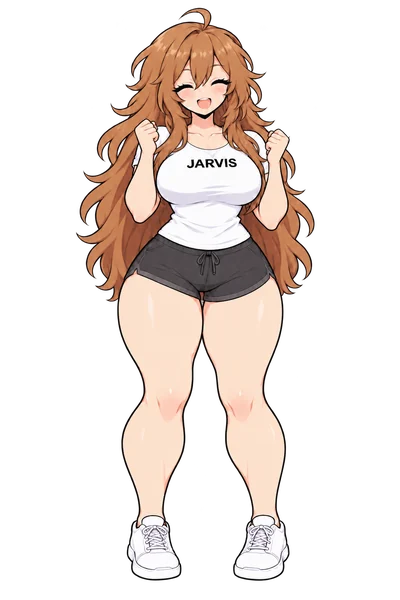
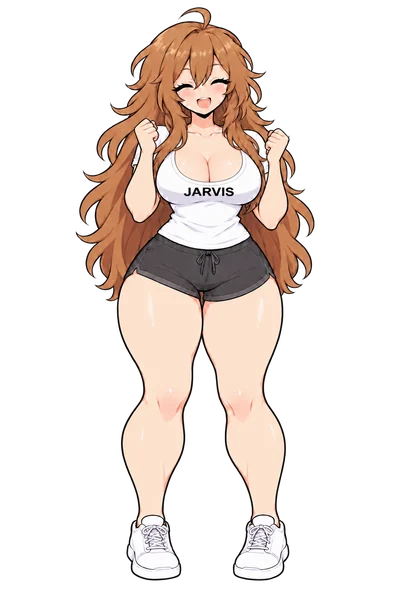
Figur: 54 Bilder mit Übergängen (Zwischenbilder, zweite Denkpose, Geste), Animationsablauf über die Grundhaltung; schmale Denk-Blase
Claude-Session: https://claude.ai/code/session_01N3EfzW3njhHc1DPKozMd7w

diff --git a/src/renderer/src/components/Pet.jsx b/src/renderer/src/components/Pet.jsx
@@ -1,4 +1,4 @@
-import { useEffect, useState } from 'preact/hooks';
+import { useEffect, useRef, useState } from 'preact/hooks';
 import { PET_ART, PET_ART_RATIO } from '../pet-art.js';
 /**
  * JARVIS als Anime-Figur (eigene Gestaltung, reines SVG): feste Outline, Cel-Shading, Kopf zu Körper ca. 1 : 5,
@@ -185,33 +185,70 @@ export const petHeight = (gender, size) => Math.round(size * (PET_ART[gender]?.i
  * Figur aus Bildern (eigene Zeichnungen, siehe scripts/import-pet-art.py): je Zustand ein Bild, Bewegung durch Umschalten –
  * Blinzeln (idle↔blink), Mund (talk↔idle), Laufen (walk1↔walk2) – plus Atmen/Wippen per CSS. Fehlt ein Bild, nimmt sie idle + Effekt.
  */
+/** Zustand der App → Bild-Pose (mit Abwechslung: zwei Denkposen, Freuen oder erklärende Geste). */
+function poseFor(state, art, variant) {
+  if (state === 'walk') return art.walk1 ? 'walk' : 'idle';
+  if (state === 'think') return variant && art.think_high ? 'think_high' : art.think ? 'think' : 'idle';
+  if (state === 'happy') return variant && art.gesture ? 'gesture' : art.happy ? 'happy' : 'idle';
+  return art[state] ? state : 'idle';
+}
+
+/**
+ * Bild-Figur mit Übergängen: Zwischen Grundhaltung und Pose spielt je ein Zwischenbild (idle_to_<pose>), von einer Pose zur
+ * nächsten geht es über die Grundhaltung. Dauerschleifen: Blinzeln (idle), Mund (talk), Schritte (walk).
+ */
 function PetImage({ art, state, facing, size, handlers }) {
-  const [tick, setTick] = useState(0);
-  const [blink, setBlink] = useState(false);
+  const [frame, setFrame] = useState('idle');
+  const cur = useRef('idle'); // Pose, in der sie gerade „steht“
+  const timers = useRef([]);
+  const variant = useRef(false);
+  const clear = () => { timers.current.forEach(clearTimeout); timers.current = []; };
+  const later = (fn, ms) => timers.current.push(setTimeout(fn, ms));
   useEffect(() => { Object.values(art).forEach((src) => { const i = new Image(); i.src = src; }); }, [art]);
+  useEffect(() => () => clear(), []);
   useEffect(() => {
-    if (state !== 'talk' && state !== 'walk') return undefined;
-    const t = setInterval(() => setTick((n) => n + 1), state === 'talk' ? 150 + Math.random() * 60 : 300);
-    return () => clearInterval(t);
-  }, [state]);
-  useEffect(() => {
-    let t; let u;
-    const loop = () => { t = setTimeout(() => { setBlink(true); u = setTimeout(() => { setBlink(false); loop(); }, 140); }, 2600 + Math.random() * 3200); };
-    loop();
-    return () => { clearTimeout(t); clearTimeout(u); };
-  }, []);
-  const pick = () => {
-    if (state === 'walk') return art.walk2 && tick % 2 ? art.walk2 : art.walk1 || art.idle;
-    if (state === 'talk') return tick % 2 ? art.idle : art.talk || art.idle;
-    if (art[state]) return art[state];
-    return blink && art.blink ? art.blink : art.idle;
-  };
+    if (state === 'think' || state === 'happy') variant.current = Math.random() < (state === 'happy' ? 0.5 : 0.45);
+    const target = poseFor(state, art, variant.current);
+    clear();
+    const has = (k) => !!art[k];
+    const via = (p) => (p === 'walk' ? 'idle_to_walk1' : 'idle_to_' + p);
+    // Weg: aktuelle Pose → (Zwischenbild) → idle → (Zwischenbild) → Ziel
+    const seq = [];
+    const fast = (p) => p === 'talk' || p === 'blink';
+    if (cur.current !== target) {
+      if (cur.current !== 'idle') { if (has(via(cur.current))) seq.push([via(cur.current), fast(cur.current) ? 60 : 110]); seq.push(['idle', target === 'idle' ? 0 : 90]); }
+      if (target !== 'idle') { if (has(via(target))) seq.push([via(target), fast(target) ? 60 : 110]); }
+    }
+    let t = 0;
+    for (const [f, ms] of seq) { later(() => setFrame(f), t); t += ms; }
+    later(() => { cur.current = target; settle(target); }, t);
+    function settle(p) {
+      if (p === 'walk') { let n = 0; const step = () => { setFrame(n++ % 2 && art.walk2 ? 'walk2' : 'walk1'); later(step, 300); }; step(); return; }
+      if (p === 'talk') {
+        // Mund: talk → halb → zu → halb … mit leicht wechselndem Tempo
+        const cyc = ['talk', 'idle_to_talk', 'idle', 'idle_to_talk'].filter(has); let n = 0;
+        const step = () => { setFrame(cyc[n++ % cyc.length]); later(step, 70 + Math.random() * 50); }; step(); return;
+      }
+      setFrame(p);
+      if (p === 'idle' && has('blink')) {
+        const blink = () => later(() => {
+          const b = has('idle_to_blink') ? ['idle_to_blink', 'blink', 'idle_to_blink', 'idle'] : ['blink', 'idle'];
+          b.forEach((f, k) => later(() => setFrame(f), k * 60));
+          later(blink, b.length * 60);
+        }, 2600 + Math.random() * 3400);
+        blink();
+      }
+    }
+    return () => clear();
+  }, [state, art]);
   const h = Math.round(size * PET_ART_RATIO);
+  const src = art[frame] || art.idle;
+  const walking = /walk/.test(frame);
   // Nur die seitlichen Laufbilder spiegeln – sonst stünde „JARVIS“ auf dem Shirt verkehrt herum
   const fx = state === 'sleep' || (!art[state] && ['happy', 'oops', 'listen', 'wave'].includes(state));
   return (
-    <div class={`pet-fig pet-img s-${state}${art[state] ? ' has-pose' : ''}`} style={{ width: size + 'px', height: h + 'px', transform: facing < 0 && state === 'walk' ? 'scaleX(-1)' : undefined }} {...handlers}>
-      <div class="body"><img src={pick()} width={size} height={h} draggable={false} alt="" /></div>
+    <div class={`pet-fig pet-img s-${state}${art[state] ? ' has-pose' : ''}`} style={{ width: size + 'px', height: h + 'px', transform: facing < 0 && walking ? 'scaleX(-1)' : undefined }} {...handlers}>
+      <div class="body"><img src={src} width={size} height={h} draggable={false} alt="" /></div>
       {fx && <svg class="pet-fx" viewBox="0 0 120 180" width={size} height={h}>
         <g class="zzz" fill="#cfeaf5" font-family="sans-serif" font-weight="700"><text x="84" y="22" font-size="11">z</text><text x="94" y="12" font-size="15">Z</text></g>
         <g class="waves" fill="none" stroke="#38e1ff" stroke-width="2.2" stroke-linecap="round"><path d="M92 26 Q98 34 92 42" /><path d="M98 21 Q106 34 98 47" /></g>

diff --git a/src/renderer/src/pet-art.js b/src/renderer/src/pet-art.js
@@ -5,28 +5,58 @@ export const PET_ART = {
     "blink": "assets/pet/frau/blink.webp",
     "talk": "assets/pet/frau/talk.webp",
     "think": "assets/pet/frau/think.webp",
+    "think_high": "assets/pet/frau/think_high.webp",
     "listen": "assets/pet/frau/listen.webp",
     "wave": "assets/pet/frau/wave.webp",
     "happy": "assets/pet/frau/happy.webp",
     "oops": "assets/pet/frau/oops.webp",
     "sleep": "assets/pet/frau/sleep.webp",
     "lean": "assets/pet/frau/lean.webp",
+    "gesture": "assets/pet/frau/gesture.webp",
     "walk1": "assets/pet/frau/walk1.webp",
-    "walk2": "assets/pet/frau/walk2.webp"
+    "walk2": "assets/pet/frau/walk2.webp",
+    "idle_to_blink": "assets/pet/frau/idle_to_blink.webp",
+    "idle_to_talk": "assets/pet/frau/idle_to_talk.webp",
+    "idle_to_think": "assets/pet/frau/idle_to_think.webp",
+    "idle_to_think_high": "assets/pet/frau/idle_to_think_high.webp",
+    "idle_to_listen": "assets/pet/frau/idle_to_listen.webp",
+    "idle_to_wave": "assets/pet/frau/idle_to_wave.webp",
+    "idle_to_happy": "assets/pet/frau/idle_to_happy.webp",
+    "idle_to_oops": "assets/pet/frau/idle_to_oops.webp",
+    "idle_to_sleep": "assets/pet/frau/idle_to_sleep.webp",
+    "idle_to_lean": "assets/pet/frau/idle_to_lean.webp",
+    "idle_to_gesture": "assets/pet/frau/idle_to_gesture.webp",
+    "idle_to_walk1": "assets/pet/frau/idle_to_walk1.webp",
+    "idle_to_walk2": "assets/pet/frau/idle_to_walk2.webp"
   },
   "male": {
     "idle": "assets/pet/mann/idle.webp",
     "blink": "assets/pet/mann/blink.webp",
     "talk": "assets/pet/mann/talk.webp",
     "think": "assets/pet/mann/think.webp",
+    "think_high": "assets/pet/mann/think_high.webp",
     "listen": "assets/pet/mann/listen.webp",
     "wave": "assets/pet/mann/wave.webp",
     "happy": "assets/pet/mann/happy.webp",
     "oops": "assets/pet/mann/oops.webp",
     "sleep": "assets/pet/mann/sleep.webp",
     "lean": "assets/pet/mann/lean.webp",
+    "gesture": "assets/pet/mann/gesture.webp",
     "walk1": "assets/pet/mann/walk1.webp",
-    "walk2": "assets/pet/mann/walk2.webp"
+    "walk2": "assets/pet/mann/walk2.webp",
+    "idle_to_blink": "assets/pet/mann/idle_to_blink.webp",
+    "idle_to_talk": "assets/pet/mann/idle_to_talk.webp",
+    "idle_to_think": "assets/pet/mann/idle_to_think.webp",
+    "idle_to_think_high": "assets/pet/mann/idle_to_think_high.webp",
+    "idle_to_listen": "assets/pet/mann/idle_to_listen.webp",
+    "idle_to_wave": "assets/pet/mann/idle_to_wave.webp",
+    "idle_to_happy": "assets/pet/mann/idle_to_happy.webp",
+    "idle_to_oops": "assets/pet/mann/idle_to_oops.webp",
+    "idle_to_sleep": "assets/pet/mann/idle_to_sleep.webp",
+    "idle_to_lean": "assets/pet/mann/idle_to_lean.webp",
+    "idle_to_gesture": "assets/pet/mann/idle_to_gesture.webp",
+    "idle_to_walk1": "assets/pet/mann/idle_to_walk1.webp",
+    "idle_to_walk2": "assets/pet/mann/idle_to_walk2.webp"
   }
 };
 export const PET_ART_RATIO = 1.5;

diff --git a/src/renderer/src/pet.jsx b/src/renderer/src/pet.jsx
@@ -156,7 +156,7 @@ function Desk() {
   const state = mood.standby && !mood.speaking ? (walk ? 'walk' : 'sleep') : mood.state !== 'idle' ? mood.state : drag ? 'wave' : walk ? 'walk' : idleAct || 'idle';
   const gender = genderFor(settings);
   // Blase neben dem Kopf – auf der Seite mit mehr Platz; die Spitze zeigt Richtung Gesicht
-  const bw = 330; const gap = 16;
+  const bw = mood.bubble?.kind === 'think' ? 120 : 330; const gap = 16; // „denkt …“-Blase nur so breit wie die Punkte
   const figH = petHeight(gender, size);
   const headY = window.innerHeight - figH + figH * 0.12; // Gesichtshöhe (von oben)
   let side = x + size / 2 > window.innerWidth / 2 ? 'left' : 'right';

diff --git a/scripts/import-pet-art.py b/scripts/import-pet-art.py
@@ -8,7 +8,9 @@ import json, os, sys
 from PIL import Image
 import numpy as np
 
-POSES = ['idle', 'blink', 'talk', 'think', 'listen', 'wave', 'happy', 'oops', 'sleep', 'lean', 'walk1', 'walk2']
+BASE = ['idle', 'blink', 'talk', 'think', 'think_high', 'listen', 'wave', 'happy', 'oops', 'sleep', 'lean', 'gesture', 'walk1', 'walk2']
+# Übergänge: idle_to_<pose> (ein Zwischenbild zwischen Grundhaltung und Pose)
+POSES = BASE + ['idle_to_' + p for p in BASE if p != 'idle']
 OUT_W, OUT_H = 400, 600
 root = os.path.dirname(os.path.dirname(os.path.abspath(__file__)))
 

diff --git a/CHANGELOG.md b/CHANGELOG.md
@@ -5,6 +5,7 @@ Jeder Abschnitt `## x.y.z` erscheint als Changelog im Update-Dialog von JARVIS.
 ## 5.3.2 – Standby, neue Sprechblase, Figur verschwindet bei Vollbild
 
 - **Standby-Modus:** „Jarvis, geh in den Standby“ (auch „Standby“, „schlaf jetzt“, „mach Pause“, „gute Nacht Jarvis“) oder Rechtsklick auf die Figur → „Standby“. Die Figur legt sich an den Rand und schläft (Zzz), der Sprachmodus ist komplett aus und JARVIS liest nichts mehr vor. „Hey Jarvis“ weckt ihn mit einem neuen Chat, eine getippte Nachricht oder der Mikrofon-Knopf auch.
+- **Flüssigere Figur:** Neue Bilder mit Übergängen – zwischen Grundhaltung und jeder Pose spielt ein Zwischenbild, Mund und Blinzeln laufen über drei Stufen statt hart umzuschalten. Neu: zweite Denkpose (Arm vor dem Oberkörper) und eine erklärende Geste nach Antworten; beim Losgehen dreht sie sich erst seitlich.
 - **Sprechblase neu:** neben dem Kopf mit kleiner Spitze Richtung Figur, Name oben (Alya / J.A.R.V.I.S.), farbiger Akzent, bei Fehlern orange. „Mach mal die Sprechblase weg“ schließt sie.
 - **Figur läuft:** Sie wohnt am rechten Rand. Zum Reden läuft sie ein Stück nach links, damit die Blase Platz hat; schließt du die Blase, läuft sie zurück an den Rand.
 - **Vollbild:** Bei Videos, Präsentationen und Spielen im Vollbild verschwindet die Figur. Unbekannte Spiele (Vollbild oder laufendes Steam-Spiel ohne eigenes Profil) zählen jetzt auch als Zocken: KI-Stimme wird entladen, die Google-Stimme spricht, das Overlay erscheint.
